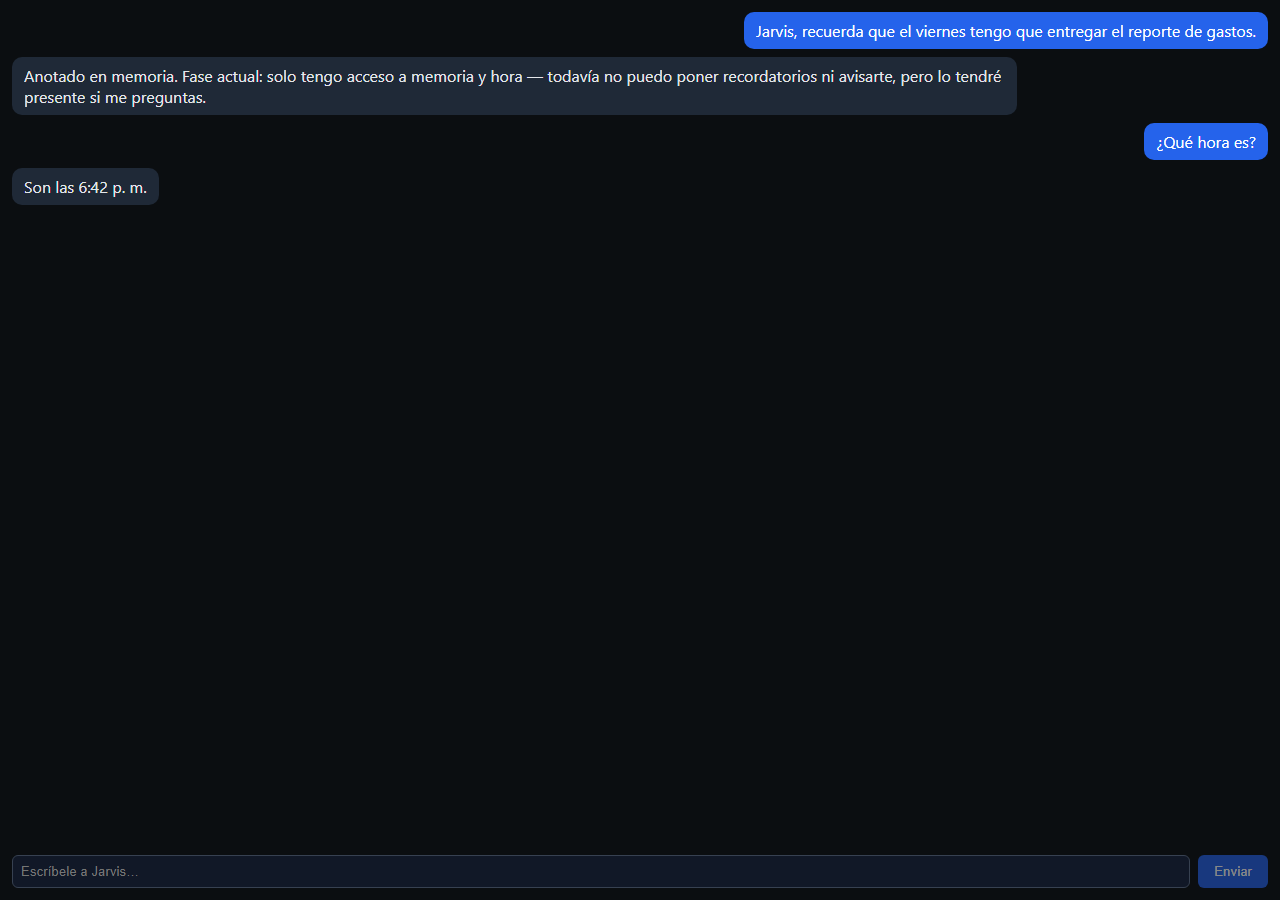
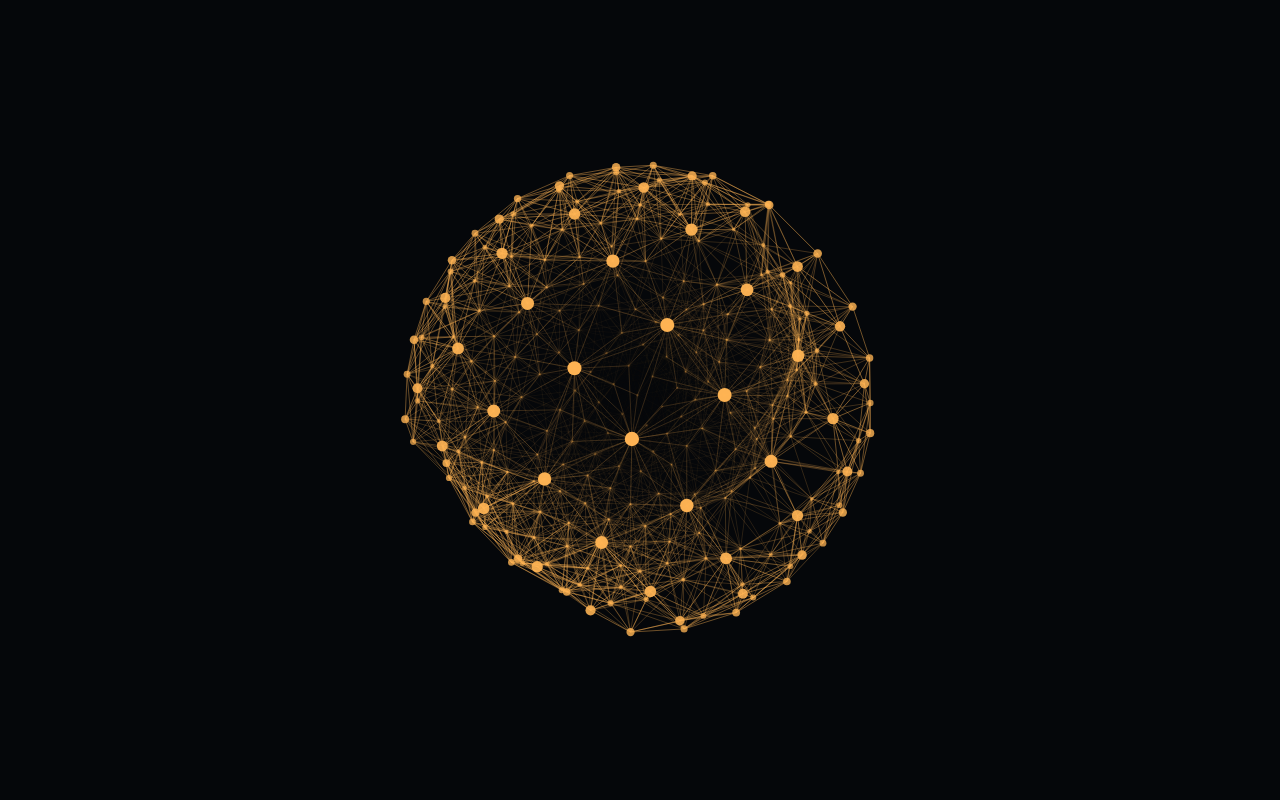
Update JARVIS portfolio card with the new voice + particle-sphere design direction
Replaced the chat-UI screenshot with a real render of the agreed sphere design (Fibonacci-distributed points, clustered pulse motion) and rewrote the description to state plainly what's built today (text MVP) vs. what's designed but not yet implemented (push-to-talk voice, sphere-only interface, no chat window). Voice implementation itself is deferred - this only updates the portfolio's representation of the design decision.

diff --git a/lib/projects.ts b/lib/projects.ts
@@ -302,9 +302,9 @@ export interface InProgressProject {
 export const IN_PROGRESS: InProgressProject = {
   name: "JARVIS",
   nameNote: "nombre provisional",
-  tagline: "Asistente operativo personal, en desarrollo activo",
+  tagline: "De chat de texto a un asistente de voz con identidad visual propia",
   description:
-    "JARVIS es el asistente operativo personal de Wili: corre como app de escritorio, con memoria persistente entre conversaciones y un conjunto de reglas de operación fijas que respeta siempre. Está en su fase de MVP de texto — hoy solo tiene acceso a memoria y a la hora; herramientas como archivos, mensajería o internet todavía no están conectadas, y lo dice explícitamente en vez de simular que sí puede usarlas.",
+    "JARVIS es el asistente operativo personal de Wili: corre como app de escritorio, con memoria persistente entre conversaciones y un conjunto de reglas de operación fijas que respeta siempre. Hoy es un MVP de texto — solo tiene acceso a memoria y a la hora, y lo dice explícitamente en vez de simular que puede hacer más. El rediseño ya está definido: control por voz (push-to-talk, sin palabra de activación) y una esfera de cientos de puntos conectados como única interfaz — sin ventana de chat ni texto en pantalla. Todavía no implementado.",
   stack: ["Electron", "React", "TypeScript", "Claude API"],
   screenshot: "/screenshots/jv-jarvis.png",
 };
